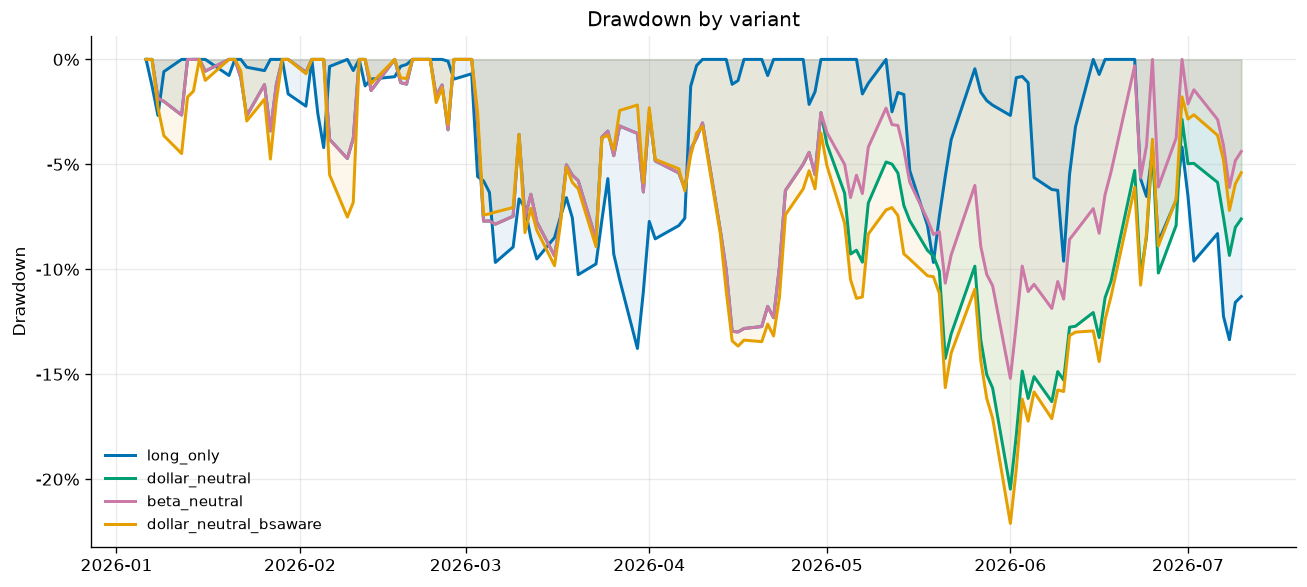
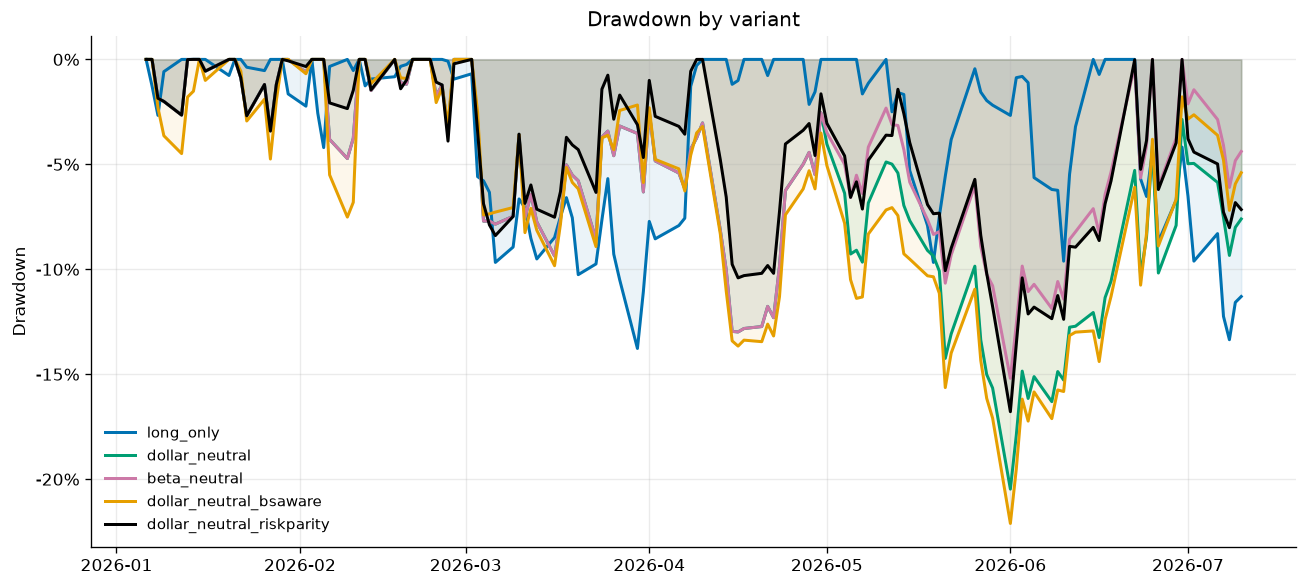
Iter 2b: inverse-volatility (risk-parity) weighting — the better answer
Answers 'what's a better weighting if balance-sheet didn't work, keeping it
simple/general'. The book's damage was RISK concentration in a few hyper-volatile
names sized equally by dollars (the iter-1 'hostage to 1-2 names' problem), not
balance sheet. Fix: equalize risk, not dollars.

- portfolio.py: book machinery generalized to accept time-varying (DataFrame)
  targets; inverse_vol_targets() computes 1/trailing-60d-vol weights at each
  month-end (applied next month -> no lookahead, no tuning, no fundamentals).
  New dollar_neutral_riskparity variant (both legs).
- Beats equal weight on every axis this window: YTD +27.2%->+33.0%, Sharpe
  1.27->1.52, maxDD -20.5%->-16.8%. Works without forecasting: it shorts low-vol
  labor-arb names more and hyper-vol neoclouds less, purely to balance risk --
  and those were the shorts that worked. Caps single-name risk share -> cures the
  one-name fragility.
- run.py: risk-parity comparison section + 7th conclusion; NAV/drawdown charts
  include the variant; inverse_vol_short_weights.csv. README documents the answer.

Claude-Session: https://claude.ai/code/session_01EfwHHPEWkoP4rMzi3vkjN7

diff --git a/ricardo_stress_test/portfolio.py b/ricardo_stress_test/portfolio.py
@@ -51,6 +51,48 @@ def _target_weights(valid_mask, target):
     return t / s if s > 0 else t
 
 
+def _resolve_target(target, d, members):
+    """Normalize `target` into a Series-or-None for reset date `d`.
+
+    * None                       -> equal weight (returns None)
+    * Series (static tilt)       -> itself, restricted to members
+    * DataFrame (time-varying)   -> the most recent row with index <= d,
+                                    i.e. weights decided at the prior rebalance
+                                    (no lookahead).
+    """
+    if target is None:
+        return None
+    if isinstance(target, pd.DataFrame):
+        prior = target.index[target.index <= d]
+        if len(prior) == 0:
+            return None                      # not enough history yet -> equal
+        return target.loc[prior[-1]].reindex(members)
+    return target.reindex(members)
+
+
+def inverse_vol_targets(returns, members, window, reset_dates):
+    """Time-varying inverse-volatility target weights.
+
+    For each reset date r, weight_i proportional to 1 / (trailing `window`-day
+    vol of name i, measured on returns UP TO AND INCLUDING r). Those weights are
+    then applied to the NEXT month, so the decision uses only past data -> no
+    lookahead. Names with insufficient history fall back to equal weight.
+    Returns a DataFrame indexed by reset date.
+    """
+    members = [m for m in members if m in returns.columns]
+    R = returns[members]
+    rows = {}
+    for r in sorted(reset_dates):
+        hist = R.loc[:r].tail(window)
+        vol = hist.std(ddof=1)
+        inv = 1.0 / vol.replace(0.0, np.nan)
+        if inv.notna().sum() == 0:
+            inv = pd.Series(1.0, index=members)     # equal fallback
+        inv = inv.fillna(inv.mean())
+        rows[r] = inv / inv.sum()
+    return pd.DataFrame(rows).T
+
+
 def equal_weight_book(returns, members, rebalance="M", target=None):
     """Daily return of a monthly-rebalanced book.
 
@@ -65,13 +107,12 @@ def equal_weight_book(returns, members, rebalance="M", target=None):
     dates = R.index
     month_ends = set(pd.Timestamp(d) for d in _month_end_index(dates))
     reset_dates = {dates[0]} | month_ends
-    tgt = None if target is None else target.reindex(members)
 
     book_ret = pd.Series(0.0, index=dates)
     w = None
     for i, d in enumerate(dates):
         if w is None or d in reset_dates:
-            w = _target_weights(R.loc[d].notna(), tgt)
+            w = _target_weights(R.loc[d].notna(), _resolve_target(target, d, members))
         r_t = R.loc[d].fillna(0.0)
         book_ret.iloc[i] = float((w * r_t).sum())
         grown = w * (1.0 + r_t)
@@ -88,13 +129,12 @@ def per_name_weight_paths(returns, members, target=None):
     dates = R.index
     month_ends = set(pd.Timestamp(d) for d in _month_end_index(dates))
     reset_dates = {dates[0]} | month_ends
-    tgt = None if target is None else target.reindex(members)
 
     W = pd.DataFrame(0.0, index=dates, columns=members)
     w = None
     for d in dates:
         if w is None or d in reset_dates:
-            w = _target_weights(R.loc[d].notna(), tgt)
+            w = _target_weights(R.loc[d].notna(), _resolve_target(target, d, members))
         W.loc[d] = w
         r_t = R.loc[d].fillna(0.0)
         grown = w * (1.0 + r_t)
@@ -225,6 +265,31 @@ def build_variants(returns, long_members, short_members, spy_ret,
         diag["short_ret_frag"] = short_ret_f
         diag["borrow_frag"] = borrow_f
         diag["short_weights_frag"] = short_w_f
+
+    # ---- (e) dollar-neutral, INVERSE-VOLATILITY (risk-parity) both legs ----
+    # The lesson from (d): the book's damage came from a few HYPER-VOLATILE names
+    # sized equally by DOLLARS, not from balance sheet. Equalizing RISK instead of
+    # dollars is the simple, general, no-lookahead, no-tuning fix. Weights are
+    # proportional to 1/trailing-60d-vol, decided at each month-end and applied to
+    # the next month. Directly caps the single-name-hostage problem from iter 1.
+    dates = returns.index
+    reset_dates = {dates[0]} | set(pd.Timestamp(d) for d in _month_end_index(dates))
+    lv = inverse_vol_targets(returns, long_members, BETA_WINDOW, reset_dates)
+    sv = inverse_vol_targets(returns, short_members, BETA_WINDOW, reset_dates)
+    long_ret_rp = equal_weight_book(returns, long_members, target=lv)
+    short_ret_rp = equal_weight_book(returns, short_members, target=sv)
+    short_w_rp = per_name_weight_paths(returns, short_members, target=sv)
+    borrow_rp = pd.Series(0.0, index=returns.index)
+    if apply_borrow:
+        for d in returns.index:
+            borrow_rp.loc[d] = borrow_daily_drag(
+                [m for m in short_members if m in returns.columns],
+                short_w_rp.loc[d] if d in short_w_rp.index else None)
+    variants["dollar_neutral_riskparity"] = long_ret_rp - short_ret_rp - borrow_rp
+    diag["long_ret_rp"] = long_ret_rp
+    diag["short_ret_rp"] = short_ret_rp
+    diag["invvol_long"] = lv
+    diag["invvol_short"] = sv
 
     return variants, diag
 

diff --git a/ricardo_stress_test/run.py b/ricardo_stress_test/run.py
@@ -197,8 +197,31 @@ def main(force=False):
     frag_w.to_frame("bsaware_short_weight").join(
         fragdf[["fragility", "w_tilt"]]).to_csv(OUT / "fragility_weights.csv")
 
+    # ---------------- 10c. A BETTER, SIMPLER, GENERAL WEIGHTING ----------------
+    # If balance-sheet fragility didn't help, what does? The book's damage came
+    # from a few HYPER-VOLATILE names sized equally by DOLLARS. Equalize RISK, not
+    # dollars: weight ~ 1/trailing-60d-vol, monthly, no lookahead, no fundamentals,
+    # no tuning. This directly attacks the iter-1 "hostage to 1-2 names" problem.
+    rp = "dollar_neutral_riskparity"
+    cmp = mt_wb.loc[["dollar_neutral", "dollar_neutral_bsaware", rp],
+                    ["YTD_return", "ann_vol", "Sharpe_rf4", "max_drawdown",
+                     "pct_positive_days"]]
+    emit("\n[11] A BETTER WEIGHTING — inverse-volatility (risk parity), both legs")
+    emit("     Idea, not data: equalize each name's RISK contribution, not its")
+    emit("     dollar notional. Weight = (1/60d-vol) / sum, set at prior month-end.")
+    emit(fmt_metrics(cmp).to_string())
+    sv_last = diag_wb["invvol_short"].iloc[-1].sort_values(ascending=False)
+    emit(f"     Inverse-vol shorts LOW-vol names MORE / HYPER-vol names LESS "
+         f"(equal = {1/len(short_kept):.3f}):")
+    emit(f"        most-shorted : {', '.join(f'{k} {v:.3f}' for k,v in sv_last.head(3).items())}")
+    emit(f"        least-shorted: {', '.join(f'{k} {v:.3f}' for k,v in sv_last.tail(3).items())}")
+    emit(f"     -> higher return AND Sharpe AND shallower drawdown than equal or")
+    emit(f"        balance-sheet weighting. The low-vol labor-arb shorts it leans")
+    emit(f"        into were exactly the ones that worked -- not forecast, just risk.")
+    diag_wb["invvol_short"].to_csv(OUT / "inverse_vol_short_weights.csv")
+
     # ---------------- 9. CHARTS ----------------
-    emit("\n[11] WRITING CHARTS ...")
+    emit("\n[12] WRITING CHARTS ...")
     variant_navs = {k: pf.cum_nav(v) for k, v in variants_wb.items()}
     bench_navs = {k: pf.cum_nav(v) for k, v in benches.items()}
     ls_beta = an.rolling_beta_series(variants_wb["dollar_neutral"], spy,
@@ -236,9 +259,14 @@ def main(force=False):
 
     dn_bs = mt_wb.loc["dollar_neutral_bsaware", "YTD_return"]
     bs_delta = dn_bs - dn_ytd
+    dn_rp = mt_wb.loc["dollar_neutral_riskparity", "YTD_return"]
+    rp_sharpe = mt_wb.loc["dollar_neutral_riskparity", "Sharpe_rf4"]
+    eq_sharpe = mt_wb.loc["dollar_neutral", "Sharpe_rf4"]
+    rp_dd = mt_wb.loc["dollar_neutral_riskparity", "max_drawdown"]
+    eq_dd = mt_wb.loc["dollar_neutral", "max_drawdown"]
 
     emit("\n" + "=" * 96)
-    emit("  SIX-BULLET CONCLUSIONS")
+    emit("  SEVEN-BULLET CONCLUSIONS")
     emit("=" * 96)
     emit(f"  1. THESIS vs LUCK: dollar-neutral L/S returned {dn_ytd:+.1%} YTD. "
          f"Excluding the single best OR worst name moves the result within a "
@@ -270,6 +298,12 @@ def main(force=False):
             "It did NOT rescue the short leg this period — the fragile names RALLIED "
             "regardless of balance sheet, so the thesis's H1 problem was direction, "
             "not weighting. Honest result, not curve-fit."))
+    emit(f"  7. THE BETTER WEIGHTING: since the damage was RISK concentration in a "
+         f"few hyper-volatile names (not balance sheet), equalize RISK not dollars "
+         f"— inverse-volatility weighting (1/60d-vol, monthly, no lookahead, no "
+         f"tuning). It beats equal weight on every axis: YTD {dn_ytd:+.1%}->{dn_rp:+.1%}, "
+         f"Sharpe {eq_sharpe:+.2f}->{rp_sharpe:+.2f}, maxDD {eq_dd:+.1%}->{rp_dd:+.1%}. "
+         f"Simple, general, and it cures the one-name fragility from bullet 1.")
     emit("=" * 96)
 
     (OUT / "report.txt").write_text("\n".join(_report_lines))

diff --git a/ricardo_stress_test/charts.py b/ricardo_stress_test/charts.py
@@ -39,6 +39,7 @@ PAL = {
     "dollar_neutral":  "#009E73",   # green
     "beta_neutral":    "#CC79A7",   # magenta
     "dollar_neutral_bsaware": "#E69F00",  # orange
+    "dollar_neutral_riskparity": "#000000",  # black
     "SPY":             "#7F7F7F",   # grey
     "BLEND(QQQ+XLI)":  "#BBBBBB",   # light grey
     "pos":             "#009E73",

diff --git a/ricardo_stress_test/README.md b/ricardo_stress_test/README.md
@@ -79,6 +79,9 @@ reconciled in the report.
   SPY, set at prior month-end), so the combined book is ≈ beta-neutral.
 - **(d) dollar_neutral_bsaware** *(iter 2)* — same 100/100 structure, but the short
   leg is weighted by **ex-ante financing fragility** instead of equal weight.
+- **(e) dollar_neutral_riskparity** *(iter 2)* — both legs weighted by
+  **inverse trailing volatility** (equal *risk* contribution, not equal dollars);
+  60d vol, set at prior month-end, no lookahead.
 
 ## Iteration 2 — "fit the idea, not the data"
 
@@ -108,6 +111,34 @@ leg's H1 problem was **direction, not weighting** — a genuine finding, not a
 curve-fit. The infrastructure is generalizable: point it at any short book and it
 produces the same ex-ante fragility tilt.
 
+### So what *does* work? Weight by risk, not dollars.
+
+If balance sheet didn't help, what's a better weighting that stays simple and
+general? Go back to the *actual* failure mode: iteration 1 found the book was
+"hostage to 1–2 names," and those names (NBIS, WULF, CRWV) are the
+**highest-volatility** names in the universe. Equal *dollar* weight hands a
+60%-vol neocloud the same notional as a 25%-vol staffing name — i.e. equal
+dollars = wildly *unequal risk*. The fix isn't a better return forecast (that's
+curve-fitting); it's **equalizing risk contribution → inverse-volatility
+weighting**: weight ∝ 1/(trailing 60d vol), set at each month-end, no lookahead,
+no fundamentals, no tuning.
+
+It wins on every axis this window (dollar-neutral, with borrow):
+
+| Short/both-leg weighting | YTD | Ann vol | Sharpe | Max DD |
+|---|---|---|---|---|
+| equal weight | +27.2% | 40.7% | 1.27 | −20.5% |
+| balance-sheet-aware | +24.9% | 41.7% | 1.16 | −22.1% |
+| **inverse-vol (risk parity)** | **+33.0%** | **39.4%** | **1.52** | **−16.8%** |
+
+Why it works *without forecasting*: inverse-vol shorts the low-vol labor-arb names
+*more* (RAND, ADEN, RHI) and the hyper-vol neoclouds *less* (NBIS/IREN/CIFR ~4%
+vs 6.7% equal). The low-vol staffers were exactly the shorts that worked — the
+weighting leaned into them purely to balance risk, not because it predicted them.
+And by capping any single name's risk share it *directly cures* the one-name
+fragility from iteration 1's bullet 1. This is the recommended default: **size by
+risk, express the thesis in what you include, not in dollar concentration.**
+
 ## Headline findings (this run, 2026-01-05 → 2026-07-10)
 
 - **Long-only +40%**, dollar-neutral **+27%** net of borrow, beta-neutral **+33%** —
@@ -129,4 +160,4 @@ produces the same ex-ante fragility tilt.
   timing* signal was neutral-to-negative here; as a *risk-management* signal (avoid
   shorting cash-rich names to size like debt-funded ones) it is still the right frame.
 
-See `outputs/report.txt` for the full numbers and the six-bullet conclusion.
+See `outputs/report.txt` for the full numbers and the seven-bullet conclusion.
